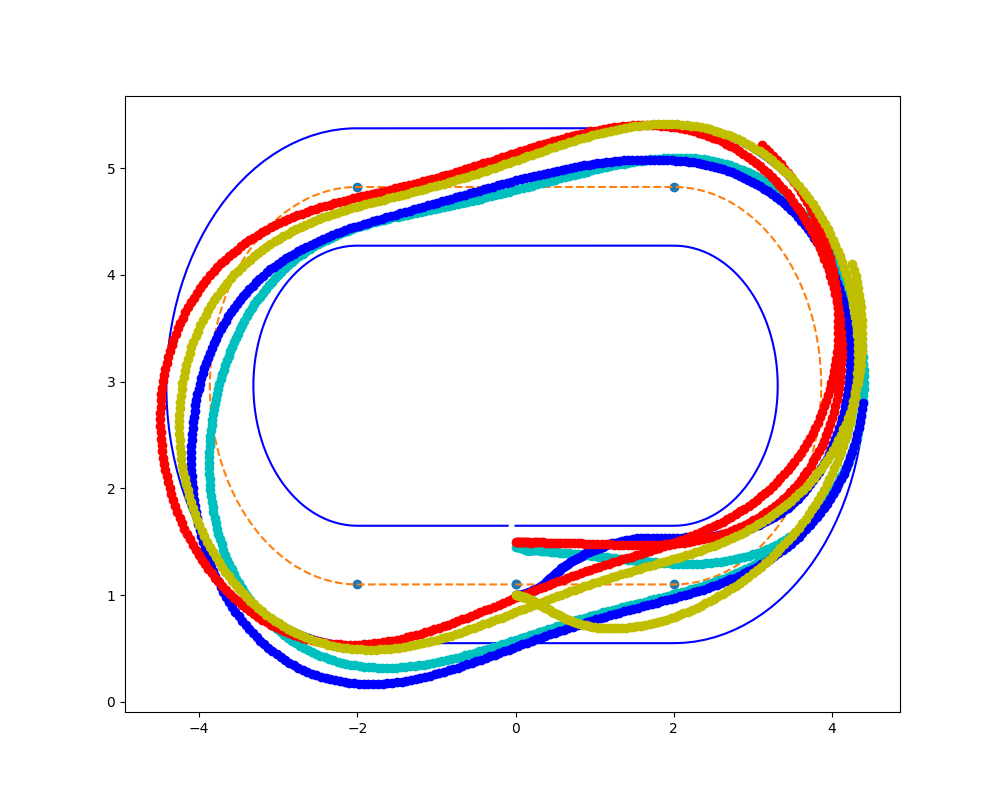
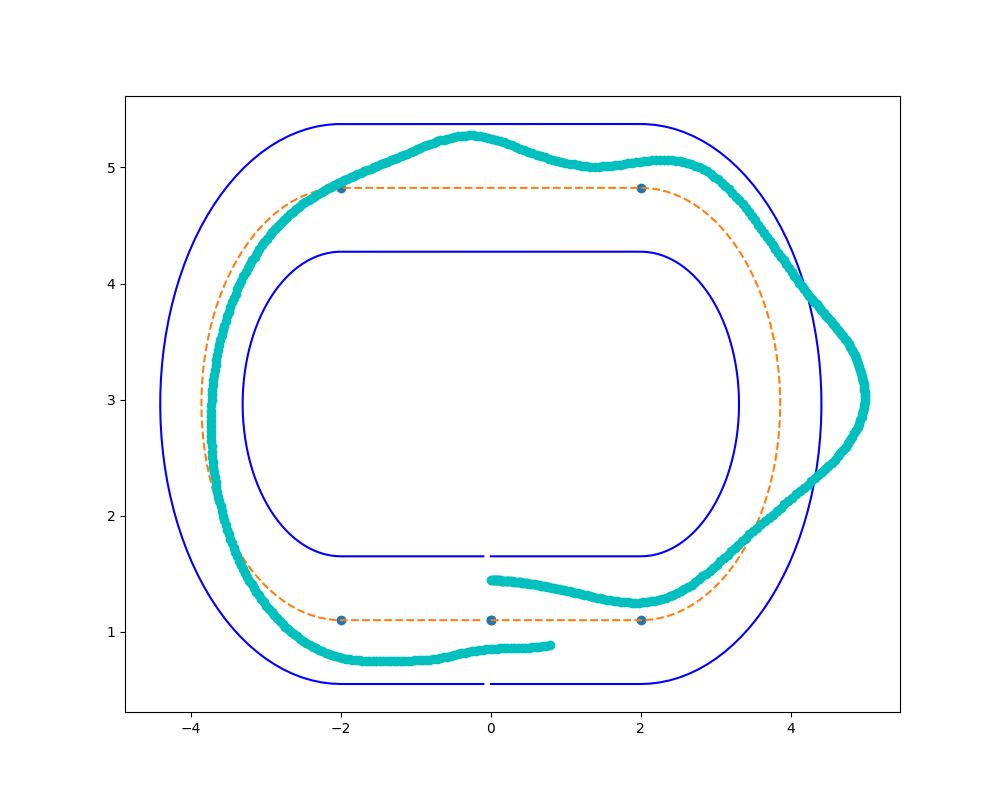
update model

diff --git a/experiments/test-bench/catkin_mrs/src/colab_mpc/src/DistributedControllerObject/PathFollowingLPVMPC_ih1.py b/experiments/test-bench/catkin_mrs/src/colab_mpc/src/DistributedControllerObject/PathFollowingLPVMPC_ih1.py
@@ -386,126 +386,102 @@ def _buildMatEqConst(Controller):
     G = np.vstack((G, Gdu))
     return G, E, L, Eu, Eoa
 
-def _EstimateABC(Controller,states, u):
 
-        lf = Controller.lf
-        lr = Controller.lr
-        m = Controller.m
-        I = Controller.I
-        Cf = Controller.Cf
-        Cr = Controller.Cr
-        mu = Controller.mu
+def _EstimateABC(Controller, states, u):
+    lf = Controller.lf
+    lr = Controller.lr
+    m = Controller.m
+    I = Controller.I
+    Cf = Controller.Cf
+    Cr = Controller.Cr
+    mu = Controller.mu
 
-        Atv = []
-        Btv = []
-        Ctv = []
+    Atv = []
+    Btv = []
+    Ctv = []
 
-        ey_hor = get_ey(states[:, 6], Controller.map)
+    ey_hor = get_ey(states[:, 6], Controller.map)
 
-        for i in range(0, Controller.N):
+    for i in range(0, Controller.N):
+        vx = states[i, 0]
+        vy = states[i, 1]
+        ey = states[i, 3]
+        epsi = states[i, 4]
+        theta = states[i, 5]
+        s = states[i, 6]
 
-            vx = states[i,0]
-            vy = states[i,1]
-            ey = states[i,3]
-            epsi = states[i,4]
-            theta = states[i,5]
-            s = states[i,6]
+        cur = Curvature(s, Controller.map)
+        delta = u[i, 0]  # EA: steering angle at K-1
 
-            cur = Curvature(s, Controller.map)
-            delta = u[i, 0]  # EA: steering angle at K-1
+        # standard model
+        A12 = ((np.sin(delta) * Cf) / (m * vx))
+        A13 = ((np.sin(delta) * Cf * lf) / (m * vx) + vy)
 
-            if vx < 0:
+        A22 = (-(Cr + Cf * np.cos(delta)) / (m * vx))
+        A23 = (-(lf * Cf * np.cos(delta) - lr * Cr) / (m * vx) - vx)
 
-                # low vel model: straight line .
-                A12 = 0
-                A13 = 0
+        A32 = (-(lf * Cf * np.cos(delta) - lr * Cr) / (I * vx))
+        A33 = (-(lf * lf * Cf * np.cos(delta) + lr * lr * Cr) / (I * vx))
 
-                A22 = 0
-                A23 = 0
+        A41 = np.sin(epsi)
+        A42 = np.cos(epsi)
 
-                A32 = 0
-                A33 = 0
+        A51 = ((1 / (1 - ey * cur)) * (-np.cos(epsi) * cur))
+        A52 = ((1 / (1 - ey * cur)) * (np.sin(epsi) * cur))
 
-                B11 = 0
-                B12 = 1
+        A61 = (np.cos(epsi) / (1 - ey * cur))
+        A62 = (-np.sin(epsi) / (1 - ey * cur))
 
+        A81 = np.cos(theta)
+        A82 = -np.sin(theta)
 
-            else:
+        A91 = np.sin(theta)
+        A92 = np.cos(theta)
 
-                # standard model
+        B11 = (-(np.sin(delta) * Cf) / m)
+        B21 = ((np.cos(delta) * Cf) / m)
+        B31 = ((lf * Cf * np.cos(delta)) / I)
 
-                A12 = (np.sin(delta) * Cf) / (m * vx)
-                A13 = (np.sin(delta) * Cf * lf) / (m * vx) + vy
+        Ai = np.array([[-mu, A12, A13, 0., 0., 0., 0., 0., 0.],  # [vx]
+                       [0., A22, A23, 0., 0., 0., 0., 0., 0.],  # [vy]
+                       [0., A32, A33, 0., 0., 0., 0., 0., 0.],  # [wz]
+                       [A41, A42, 0, 0., 0, 0., 0., 0., 0.],  # [ey]
+                       [A51, A52, 1., 0., 0., 0., 0., 0., 0.],  # [epsi]
+                       [0, 0, 1., 0., 0., 0., 0., 0., 0.],  # [theta]
+                       [A61, A62, 0, 0., 0., 0., 0., 0., 0.],  # [s]
+                       [A81, A82, 0, 0., 0., 0., 0., 0., 0.],  # [x]
+                       [A91, A92, 0, 0., 0., 0., 0., 0., 0.],  # [y]
+                       ])
 
-                A22 = -(Cr + Cf * np.cos(delta)) / (m * vx)
-                A23 = -(lf * Cf * np.cos(delta) - lr * Cr) / (m * vx) - vx
+        Bi = np.array([[B11, 1],  # [delta, a]
+                       [B21, 0],
+                       [B31, 0],
+                       [0, 0],
+                       [0, 0],
+                       [0, 0],
+                       [0, 0],
+                       [0, 0],
+                       [0, 0]])
 
-                A32 = -(lf * Cf * np.cos(delta) - lr * Cr) / (I * vx)
-                A33 = -(lf * lf * Cf * np.cos(delta) + lr * lr * Cr) / (I * vx)
+        Ci = np.array([[0],
+                       [0],
+                       [0],
+                       [0],
+                       [0],
+                       [0],
+                       [0],
+                       [0],
+                       [0]])
 
-                B11 = -(np.sin(delta) * Cf) / m
-                B12 = 1
+        Ai = np.eye(len(Ai)) + Controller.dt * Ai
+        Bi = Controller.dt * Bi
+        Ci = Controller.dt * Ci
 
-            A11 = -mu
+        Atv.append(Ai)
+        Btv.append(Bi)
+        Ctv.append(Ci)
 
-            A51 = (1 / (1 - ey * cur)) * (-cur)
-            A52 = (1 / (1 - ey * cur)) * (np.sin(epsi) * cur)
-
-            A61 = np.cos(epsi) / (1 - ey * cur)
-            A62 = -np.sin(epsi) / (1 - ey * cur)
-
-            A7 = 1
-            A8 = vx
-
-            A81 = np.cos(theta)
-            A82 = -np.sin(theta)
-
-            A91 = np.sin(theta)
-            A92 = np.cos(theta)
-
-            B21 = (np.cos(delta) * Cf) / m
-            B31 = (lf * Cf * np.cos(delta)) / I
-
-            Ai = np.array([[A11, A12, A13, 0., 0., 0., 0., 0., 0.],  # [vx]
-                           [0., A22, A23, 0., 0., 0., 0., 0., 0.],  # [vy]
-                           [0., A32, A33, 0., 0., 0., 0., 0., 0.],  # [wz]
-                           [0, A7, 0, 0., A8, 0., 0., 0., 0.],    # [ey]
-                           [A51, A52, 1.,0., 0., 0., 0., 0., 0.],  # [epsi]
-                           [0, 0, 1.,0., 0., 0., 0., 0., 0.],  # [theta]
-                           [A61, A62, 0, 0., 0., 0., 0., 0., 0.],  # [s]
-                           [A81, A82, 0, 0., 0., 0., 0., 0., 0.],  # [x]
-                           [A91, A92, 0, 0., 0., 0., 0., 0., 0.],  # [y]
-                           ])
-
-            Bi = np.array([[B11, B12],  # [delta, a]
-                           [B21, 0],
-                           [B31, 0],
-                           [0, 0],
-                           [0, 0],
-                           [0, 0],
-                           [0, 0],
-                           [0, 0],
-                           [0, 0]])
-
-            Ci = np.array([[0],
-                           [0],
-                           [0],
-                           [0],
-                           [0],
-                           [0],
-                           [0],
-                           [0],
-                           [0]])
-
-            Ai = np.eye(len(Ai)) + Controller.dt * Ai
-            Bi = Controller.dt * Bi
-            Ci = Controller.dt * Ci
-
-            Atv.append(Ai)
-            Btv.append(Bi)
-            Ctv.append(Ci)
-
-        return Atv, Btv, Ctv, ey_hor
+    return Atv, Btv, Ctv, ey_hor
 
 
 

diff --git a/experiments/test-bench/catkin_mrs/src/colab_mpc/src/dc_1ih.py b/experiments/test-bench/catkin_mrs/src/colab_mpc/src/dc_1ih.py
@@ -27,7 +27,7 @@ def compute_hyper(x_ego,x_neg):
 class agent():
 
     #TODO: define Q and R
-    def __init__(self, N, Map, dt, x0, id, Q=np.diag([100.0, 1.0, 1.0, 100.0, 70.0, 0.0, 0.0, 0, 0]), R=50 * np.diag([1, 1])):
+    def __init__(self, N, Map, dt, x0, id, Q=np.diag([10.0, 0.0, 0.0, 200.0, 50.0, 0.0, 0.0, 0, 0]), R=50 * np.diag([1, 1])):
         self.map = Map
         self.N = N
         self.dt = dt
@@ -153,7 +153,7 @@ def main():
 #########################################################
     # set constants
 
-    N = 25
+    N = 10
     dt = 0.01
 
     x0_0 = [1.3, -0.16, 0.00, 0.45, 0, 0.0, 0, 0.0, 1.45]  # [vx vy psidot y_e thetae theta s x y]
@@ -185,8 +185,8 @@ def main():
 
         if not (f0 and 1):
             break
-        # print(uPred0[0,:])
-        print(xPred0[0,:])
+        print(uPred0)
+        print(xPred0)
 
         r0.save(xPred0, uPred0, planes0)
 
